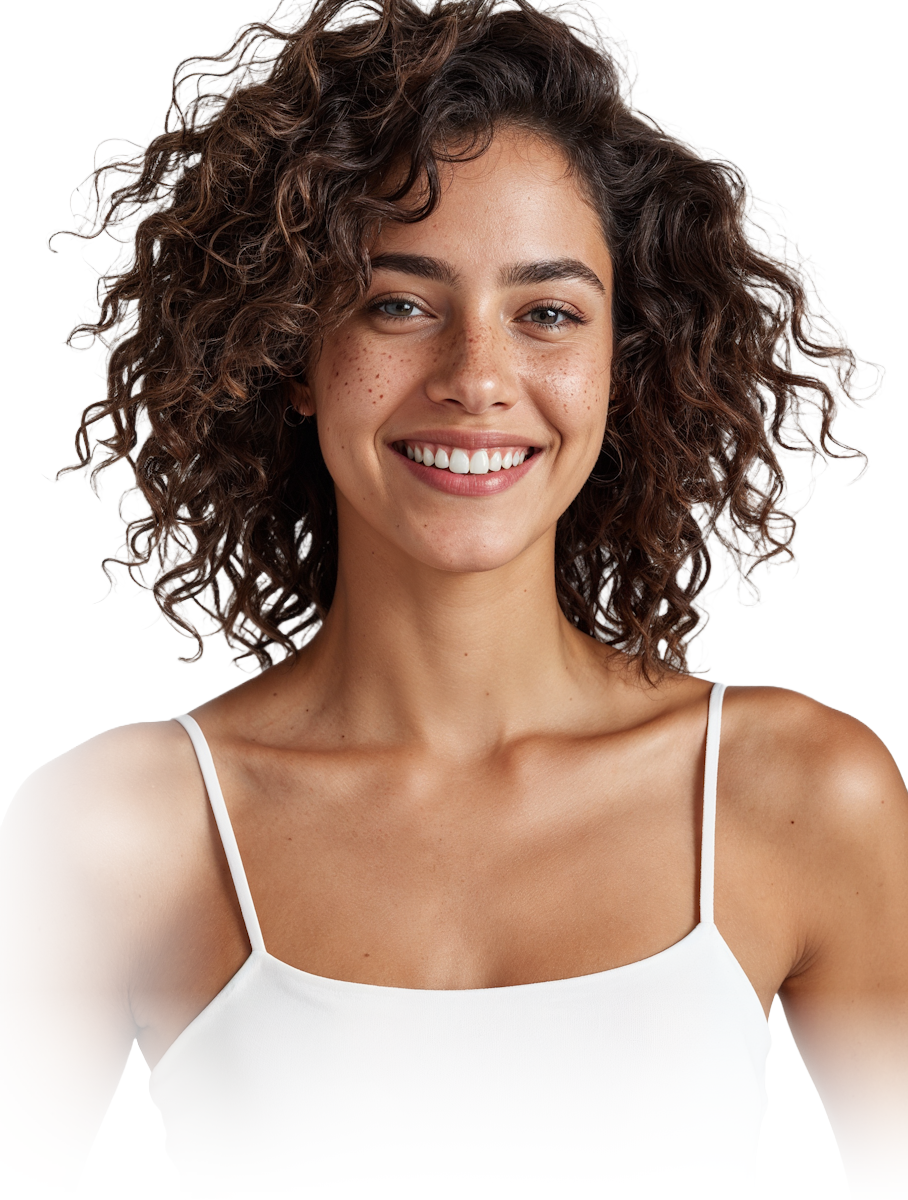
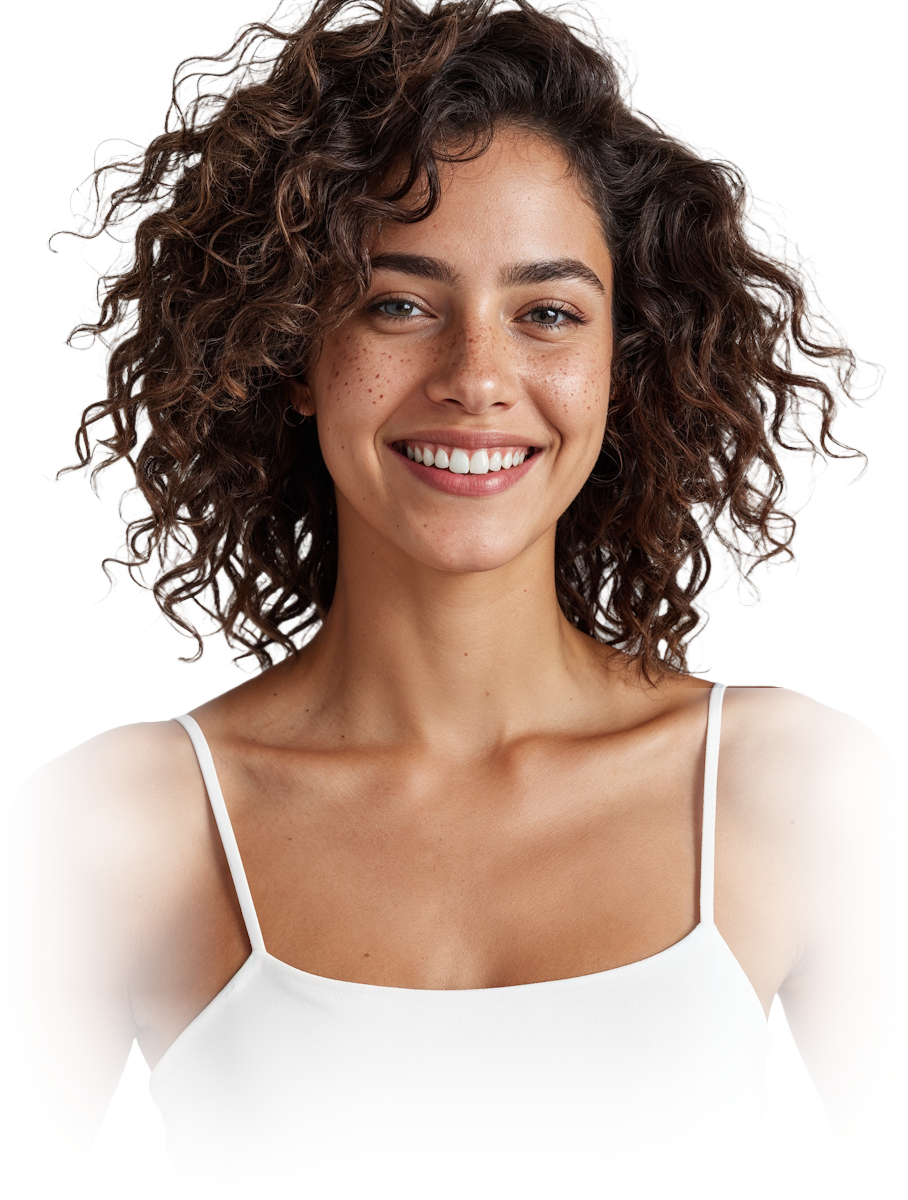
wip

Changed region(s): [[0.7401, 0.555, 1.0, 0.9558]]

diff --git a/resources/views/livewire/home.blade.php b/resources/views/livewire/home.blade.php
@@ -81,13 +81,13 @@
             </div>
         </div>
 
+        <div class="-ml-48 -z-1 -mt-8">
+            <img src="{{ asset('images/woman2.png') }}" alt="">
+        </div>
 
         <x-blobs/>
     </section>
 
-    <div class="absolute top-14 right-0 w-1/2 z-1">
-        <img src="{{ asset('images/woman2.png') }}" alt="">
-    </div>
 
     <div>
         Lorem ipsum dolor sit amet, consectetur adipisicing elit. Esse, nobis, quo. Ad doloribus expedita illo illum
